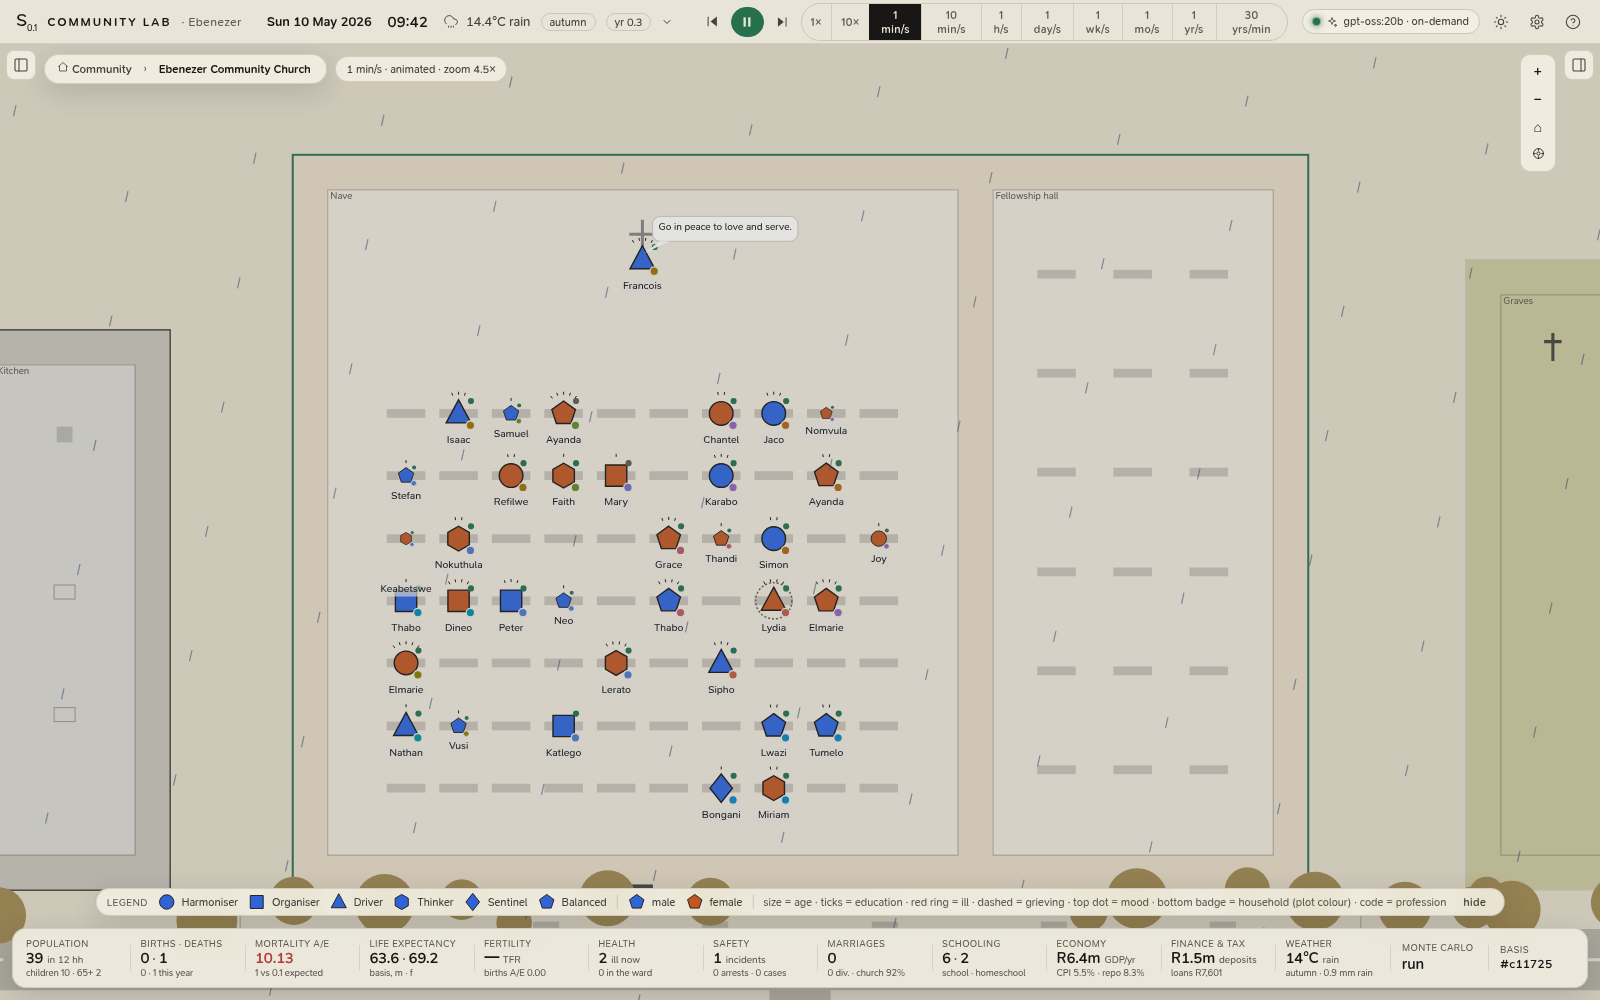
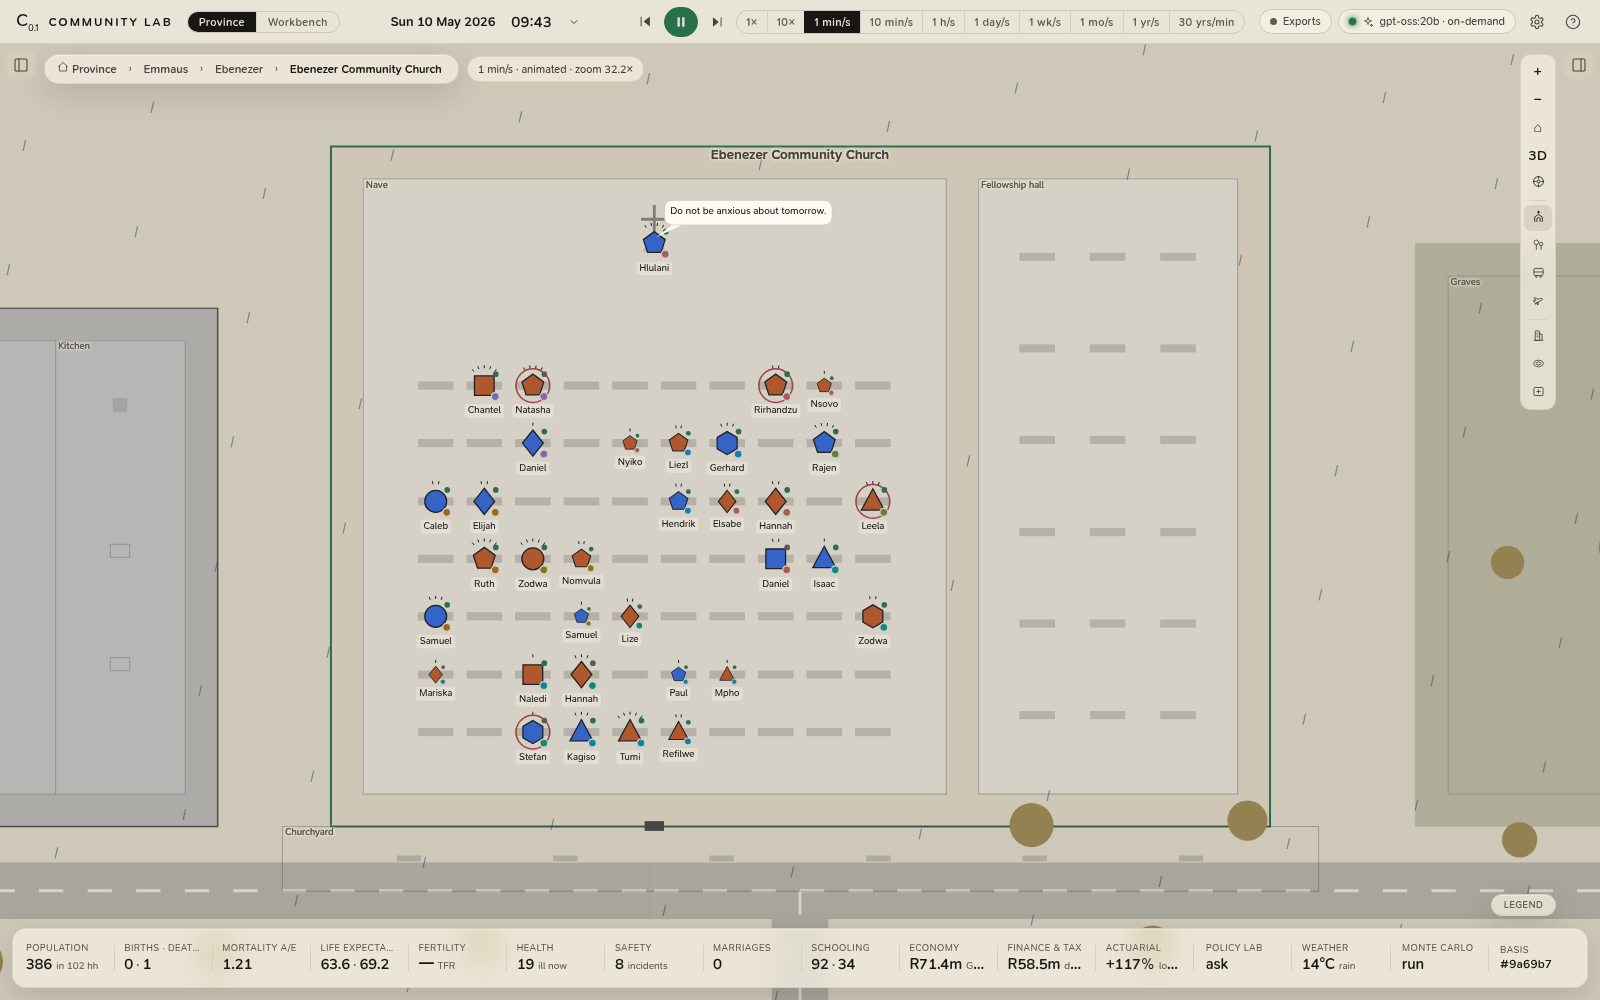
The README's pictures retaken from the IDE, with C₀.₁ in the top bar
The fourteen pictures in docs/media were taken from the app while it lived in
Scelo's apps/community, and carried Scelo's S₀.₁. scripts/screenshots.ts now
takes the set from the running IDE (bun run dev, then bun
scripts/screenshots.ts), on the first set's timeline: the province scenes in
its first fortnight, the church, a household and the scene controls on Sunday
10 May 2026, the analytics and the finance workspace on 9 May 2029. It logs
what each caption claims (the two aircraft, a train leaving Ithemba, the
service under way) so a moment that did not hold is seen before a commit.

The airport's caption now says what the picture shows: the shuttle's bus stop
is on the terminal's side of Terminal Drive, and the departure taxis out on the
taxiway rather than the Airside Road.

diff --git a/scripts/screenshots.ts b/scripts/screenshots.ts
@@ -1,91 +1,183 @@
-// Produces the README image set into docs/media from the running dev app.
-//   bun run dev            # in one terminal
-//   bun scripts/screenshots.ts
+// The README's pictures (docs/media/*.png), taken from the running app, each the scene its caption describes:
+//
+//   bun run dev                                     # the dev pair, UI on http://localhost:5195/
+//   bun scripts/screenshots.ts [url] [out-dir]      # defaults: http://localhost:5195/ and docs/media
+//
+// The flat map at every zoom (the README describes the plan views; the 3D close-up has its own pictures in the
+// manual), 1600 × 1000, the light theme, en-GB dates. The script logs what each caption claims (the airport's two
+// aircraft, a train leaving a station, the service under way) so a moment that did not hold is seen before the
+// pictures are committed. `SHOTS=airport,hyperline` saves only those (the clock still runs through every scene).
+
 import puppeteer from 'puppeteer-core';
 import { mkdirSync } from 'node:fs';
+import { join } from 'node:path';
 
-const URL = process.argv[2] ?? 'http://localhost:5175/';
-const OUT = 'docs/media';
+const URL = process.argv[2] ?? 'http://localhost:5195/';
+const OUT = process.argv[3] ?? 'docs/media';
+const ONLY = process.env.SHOTS ? new Set(process.env.SHOTS.split(',')) : null;
 mkdirSync(OUT, { recursive: true });
 
 const browser = await puppeteer.launch({
   executablePath: '/usr/bin/google-chrome',
   headless: true,
-  args: ['--no-sandbox', '--disable-gpu', '--force-color-profile=srgb', '--font-render-hinting=none'],
+  protocolTimeout: 600_000,
+  env: { ...process.env, LANG: 'en_GB.UTF-8', LANGUAGE: 'en_GB', LC_ALL: 'en_GB.UTF-8' },
+  args: ['--no-sandbox', '--lang=en-GB', '--force-color-profile=srgb', '--font-render-hinting=none', '--window-size=1600,1000'],
 });
 const page = await browser.newPage();
+await page.setExtraHTTPHeaders({ 'Accept-Language': 'en-GB' });
 await page.evaluateOnNewDocument(() => {
   try {
-    localStorage.clear();
+    if (!sessionStorage.getItem('readme-shots')) {
+      localStorage.clear();
+      sessionStorage.setItem('readme-shots', '1');
+    }
     localStorage.setItem('ia.theme', 'light');
   } catch {
-    /* first run */
+    /* storage unavailable */
   }
 });
-await page.setViewport({ width: 1800, height: 950, deviceScaleFactor: 1 });
+await page.setViewport({ width: 1600, height: 1000, deviceScaleFactor: 1 });
 const errors: string[] = [];
 page.on('pageerror', (e) => errors.push(String((e as Error).message)));
 page.on('console', (m) => {
   if (m.type() === 'error') errors.push(m.text());
 });
-const run = (code: string) => page.evaluate(`(() => { ${code} })()`);
+
+const sleep = (ms: number) => new Promise((r) => setTimeout(r, ms));
+const run = <T = unknown>(code: string) => page.evaluate(`(() => { const s = window.communityLab.store; ${code} })()`) as Promise<T>;
+const clock = () => run<string>(`const c = s.cal(); return c.isoDate + ' ' + String(Math.floor(s.sim.world.minuteOfDay / 60)).padStart(2, '0') + ':' + String(s.sim.world.minuteOfDay % 60).padStart(2, '0');`);
 const shot = async (name: string, settle = 1200) => {
-  await new Promise((r) => setTimeout(r, settle));
-  await page.screenshot({ path: `${OUT}/${name}.png` });
-  console.log('shot', name);
+  if (ONLY && !ONLY.has(name)) return;
+  await sleep(settle);
+  await page.screenshot({ path: join(OUT, `${name}.png`) });
+  console.log(`shot ${name} · ${await clock()}`);
 };
+const want = (name: string) => !ONLY || ONLY.has(name);
+const fly = (label: string) => page.evaluate((l) => (document.querySelector(`button.fly[aria-label="Fly to ${l}"]`) as HTMLElement | null)?.click(), label);
 
-await page.goto(URL, { waitUntil: 'networkidle0', timeout: 60000 });
+await page.goto(URL, { waitUntil: 'networkidle0', timeout: 90_000 });
 await page.waitForSelector('canvas');
+await page.waitForFunction('!!window.communityLab');
+await sleep(1500);
 
-// A community that has lived a few years: households formed, events on the ledger.
-await run(`const s = window.communityLab.store; s.sim.runDays(1500); s.bump();`);
+// The flat map at every zoom, both side panels closed. The pictures follow one province through time, as the first
+// set did: its first fortnight (the province scenes), a Sunday four months in (the church, a household, the scene
+// controls), and three years later (the analytics and the finance workspace).
+await run(`s.pause(); try { s.set('view3d', false); } catch {} s.set('sidebarOpen', false); s.set('inspectorOpen', false); s.bump();`);
+await sleep(800);
 
-// 1. The whole community on a Saturday morning, both panels closed: the market
-//    is open, children are at the park, people are on the roads.
-await run(`const s = window.communityLab.store; s.jumpToWeekday(6, 10 * 60 + 40); s.resetCamera(); s.setSpeed('x60'); s.play();`);
-await shot('community', 4000);
+// 1. The Hyperline leaving Ithemba on the first Tuesday morning, when most households are out and their plots greyed:
+//    wait for a train standing at the station, slow to real time, and take it as it pulls away (at real time a hop
+//    lasts long enough to be seen; faster, it is a single frame).
+if (want('hyperline')) {
+  await run(`s.jumpToWeekday(2, 10 * 60);
+    const st = s.sim.world.buildings['st-ithemba'];
+    s.followId = null; s.camera.x = s.camera.tx = st.x + st.w / 2 + 380; s.camera.y = s.camera.ty = st.y + st.h / 2 - 160; s.camera.zoom = s.camera.tzoom = 1.1;
+    s.setSpeed('x60'); s.play();`);
+  const standing = `const st = s.sim.world.buildings['st-ithemba']; return Object.values(s.sim.world.vehicles).find((v) => v.kind === 'train' && Math.hypot(v.x - (st.x + st.w / 2), v.y - (st.y + st.h / 2)) < 160);`;
+  let atStation = false;
+  for (let i = 0; i < 600 && !atStation; i++) {
+    atStation = await run<boolean>(`const v = (() => { ${standing} })(); return !!v && !v.moving;`);
+    if (!atStation) await sleep(50);
+  }
+  await run(`s.setSpeed('realtime');`);
+  let left = false;
+  for (let i = 0; i < 3000 && !left; i++) {
+    left = await run<boolean>(`return Object.values(s.sim.world.vehicles).some((v) => v.kind === 'train' && v.moving && (v.speed ?? 0) > 1000 && Math.hypot(v.x - (s.sim.world.buildings['st-ithemba'].x + 40), v.y - (s.sim.world.buildings['st-ithemba'].y + 30)) < 900);`);
+    if (!left) await sleep(50);
+  }
+  console.log(`  a train leaving Ithemba: ${left ? 'yes' : 'NOT CAUGHT'} (${atStation ? 'it stood at the station first' : 'none stood at the station'})`);
+  if (left) await shot('hyperline', 250);
+  await run(`s.pause();`);
+}
 
-// 2. Inside a house in the evening: interiors, household colours, the inspector.
+// 2. The CBD at 10:30 on the first Saturday.
+await run(`s.pause(); s.jumpToWeekday(6, 10 * 60 + 29); s.setSpeed('x60'); s.play();`);
+if (want('unity-centre')) {
+  await fly('Unity CBD');
+  await sleep(1000);
+  await run(`s.setSpeed('x10');`);
+  await shot('unity-centre', 2500);
+}
+
+// 3. The province later that morning.
+await run(`s.pause(); s.jumpBy(Math.max(0, 10 * 60 + 40 - s.sim.world.minuteOfDay)); s.resetCamera(); s.setSpeed('x60'); s.play();`);
+await shot('region', 4000);
+
+// 4. The airport at 09:12 the next Tuesday: the 09:10 departure taxiing out, the other aircraft on its stand. Framed on
+//    the terminal and its apron, with the station, the bus stop, the tower, the hangar, the fire station and the runway.
+if (want('airport')) {
+  // Land at 09:11: the departure pushes back on the first minute tick at or after its time, which a jump landing at
+  // 09:12 would not see until 09:13.
+  await run(`s.pause(); s.jumpToWeekday(2, 9 * 60 + 11);
+    const t = s.sim.world.buildings['ap-terminal'];
+    s.followId = null; s.camera.x = s.camera.tx = t.x + t.w; s.camera.y = s.camera.ty = t.y + t.h * 0.94; s.camera.zoom = s.camera.tzoom = 3.04;
+    s.setSpeed('x60'); s.play();`);
+  for (let i = 0; i < 200; i++) {
+    const out = await run<boolean>(`return s.sim.world.minuteOfDay >= 9 * 60 + 12.2 && Object.values(s.sim.world.vehicles).some((v) => v.kind === 'plane' && v.moving && !v.airborne);`);
+    if (out) break;
+    await sleep(50);
+  }
+  await run(`s.setSpeed('x10');`);
+  const planes = await run<string>(`return Object.values(s.sim.world.vehicles).filter((v) => v.kind === 'plane').map((v) => (v.airborne ? 'airborne' : v.moving ? 'taxiing' : 'on its stand')).join(', ');`);
+  console.log(`  the aircraft at ${await clock()}: ${planes}`);
+  await shot('airport', 300);
+}
+
+// 5. The Sunday service, four months in: the pastor preaching, the congregation in the pews.
+await run(`s.pause(); s.jumpTo('2026-05-10', 9 * 60 + 40); s.select({ kind: 'building', id: 'church' }, { focus: true }); s.setSpeed('x60'); s.play();`);
+await sleep(3200);
+const service = await run<string>(`const w = s.sim.world; const p = w.people[w.roles.pastorId]; const c = p && p.conversationId ? w.conversations[p.conversationId] : null; const inside = Object.values(w.people).filter((q) => q.alive && q.loc.buildingId === 'church').length; return (p ? p.firstName : 'no pastor') + ' · ' + (c ? c.topic + ' · ' + c.lines.length + ' lines' : 'not speaking') + ' · ' + inside + ' in the church';`);
+console.log(`  the service: ${service}`);
+await shot('service', 200);
+
+// 6. Directing the scene, over the province in daylight (the panel is glass: over the evening map it reads dim).
+await run(`s.pause(); s.select(null); s.resetCamera(); s.setScene(true);`);
+await shot('scene', 1400);
+await run(`s.setScene(false);`);
+
+// 7. Fellowship afterwards, in the hall.
 await run(`
-  const s = window.communityLab.store, w = s.sim.world;
-  s.pause(); s.jumpBy(((18 * 60 + 35) - w.minuteOfDay + 1440) % 1440);
-  const hh = Object.values(w.households).filter((h) => !h.dissolvedDay).sort((a, b) => b.memberIds.length - a.memberIds.length)[0];
+  const w = s.sim.world;
+  s.jumpBy((11 * 60 + 14) - w.minuteOfDay);
+  const r = w.buildings.church.rooms.find((x) => x.id === 'church-hall');
+  s.camera.tx = r.x + r.w / 2; s.camera.ty = r.y + r.h / 2; s.camera.tzoom = 11; s.play();
+`);
+await shot('fellowship', 3200);
+
+// 8. A household at dinner that evening, with the inspector.
+await run(`
+  s.pause();
+  const w = s.sim.world;
+  s.jumpBy((18 * 60 + 40) - w.minuteOfDay);
+  const hh = Object.values(w.households).filter((h) => !h.dissolvedDay && h.memberIds.length).sort((a, b) => b.memberIds.length - a.memberIds.length)[0];
   s.set('inspectorOpen', true); s.select({ kind: 'household', id: hh.id }, { focus: true });
   s.play();
 `);
 await shot('household', 4000);
 
-// 3. The Sunday service: the pastor preaching, the congregation in the pews.
-await run(`
-  const s = window.communityLab.store;
-  s.pause(); s.set('inspectorOpen', false); s.jumpToWeekday(0, 9 * 60 + 45);
-  s.select({ kind: 'building', id: 'church' }, { focus: true }); s.play();
-`);
-await new Promise((r) => setTimeout(r, 3200));
-await run(`
-  const w = window.communityLab.store.sim.world, p = w.people[w.roles.pastorId];
-  const c = p.conversationId ? w.conversations[p.conversationId] : null;
-  console.log('pastor', p.firstName, p.sex, 'topic', c && c.topic, 'lines', c ? c.lines.length : 0);
-`);
-await shot('service', 200);
+// Three years on: the analytics and the books want history.
+await run(`s.pause(); s.select(null); s.set('inspectorOpen', false); const e = s.jumpTo('2029-05-09', 0); if (e) throw new Error(e); s.bump();`);
+await sleep(1000);
 
-// 4. Fellowship afterwards, zoomed in on the hall.
-await run(`
-  const s = window.communityLab.store, w = s.sim.world;
-  s.jumpBy((11 * 60 + 20) - w.minuteOfDay);
-  const r = w.buildings.church.rooms.find((x) => x.id === 'church-hall');
-  s.camera.tx = r.x + r.w / 2; s.camera.ty = r.y + r.h / 2; s.camera.tzoom = 11;
-`);
-await shot('fellowship', 3200);
-
-// 5. The actuarial payload: actual-vs-expected mortality, full screen.
-await run(`const s = window.communityLab.store; s.pause(); s.openDrawer('mortality'); s.setDrawerFull(true);`);
+// 9. Mortality A/E, full screen.
+await run(`s.openDrawer('mortality'); s.setDrawerFull(true);`);
 await shot('analytics', 1800);
 
-// 6. Directing the scene.
-await run(`const s = window.communityLab.store; s.setDrawerFull(false); s.openDrawer(null); s.setScene(true);`);
-await shot('scene', 1400);
+// 10–14. The finance workspace.
+await run(`s.openFinance('micro'); s.setDrawerFull(true);`);
+await shot('economy-micro', 1800);
+await run(`s.setFinance({ section: 'macro' });`);
+await shot('economy-macro', 1800);
+await run(`s.setFinance({ section: 'bank' });`);
+await shot('bank', 1800);
+await run(`s.setFinance({ section: 'tax' });`);
+await shot('tax', 1800);
+await run(`s.setFinance({ section: 'books', entity: 'market' });`);
+await sleep(800);
+await page.evaluate(() => (document.querySelectorAll('.books-head .tab')[6] as HTMLElement | undefined)?.click());
+await shot('books', 1500);
 
 console.log(errors.length ? `console errors: ${errors.slice(0, 5).join(' | ')}` : 'no console errors');
 await browser.close();

diff --git a/README.md b/README.md
@@ -26,8 +26,8 @@ against it. It runs offline; a local model scripts the conversations.
 
 | | |
 |---|---|
-| <img src="docs/media/airport.png" alt="Unity Provincial Airport at 09:12: the terminal and its apron, one plane on the stands and the other taxiing out along the Airside Road to Runway 18/36, the Hyperline's Airport station across Terminal Drive, the airport bus stop, the control tower, the hangar and the fire station"> | <img src="docs/media/hyperline.png" alt="The Hyperline at speed: a long silver capsule with a blue nose on its elevated guideway, trailing a streak as it accelerates away from a station"> |
-| <sub>The airport at 09:12 on a Tuesday: the 09:10 departure taxiing out to the runway while the other aircraft waits on its stand; the Airport station and the shuttle's bus stop are across Terminal Drive from the terminal.</sub> | <sub>The Hyperline between stations: launched to Mach 5 (a slider in the basis) within a platform's length, so a hop is over in about a second of simulated time — the renderer stretches it into a half-second streak along the guideway. Empty places, here the plots whose households are out, are drawn slightly greyed.</sub> |
+| <img src="docs/media/airport.png" alt="Unity Provincial Airport at 09:12: the terminal and its apron, one plane on its stand and the other taxiing out to Runway 18/36, the Hyperline's Airport station across Terminal Drive, the airport bus stop, the control tower, the hangar and the fire station"> | <img src="docs/media/hyperline.png" alt="The Hyperline at speed: a long silver capsule with a blue nose on its elevated guideway, trailing a streak as it accelerates away from a station"> |
+| <sub>The airport at 09:12 on a Tuesday: the 09:10 departure taxiing out to the runway while the other aircraft waits on its stand; the Airport station is across Terminal Drive from the terminal, and the shuttle's bus stop is on the Drive just below it.</sub> | <sub>The Hyperline between stations: launched to Mach 5 (a slider in the basis) within a platform's length, so a hop is over in about a second of simulated time — the renderer stretches it into a half-second streak along the guideway. Empty places, here the plots whose households are out, are drawn slightly greyed.</sub> |
 
 <img src="docs/media/unity-centre.png" alt="Unity Centre: Government House, the Reserve Bank, the provincial police headquarters and Unity Square north of the boulevard; the bus and taxi terminus, the chambers, the towers and the mall south of it" width="100%">
 
